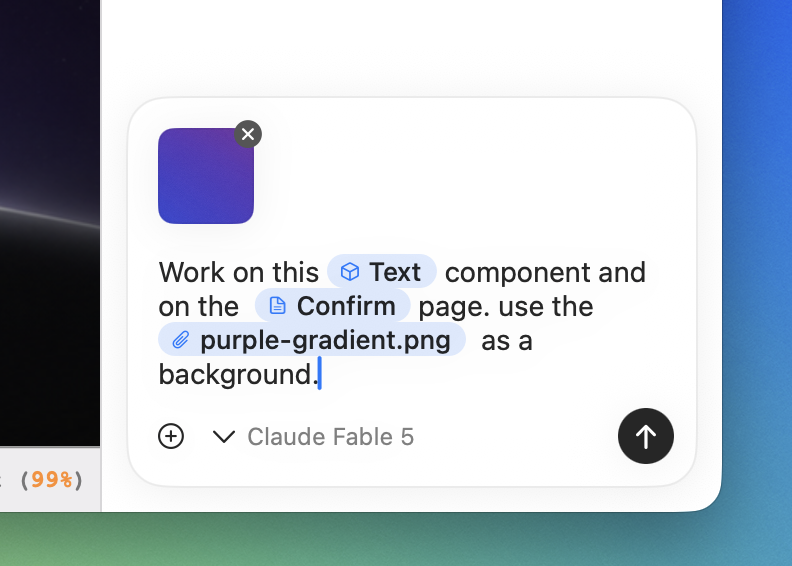
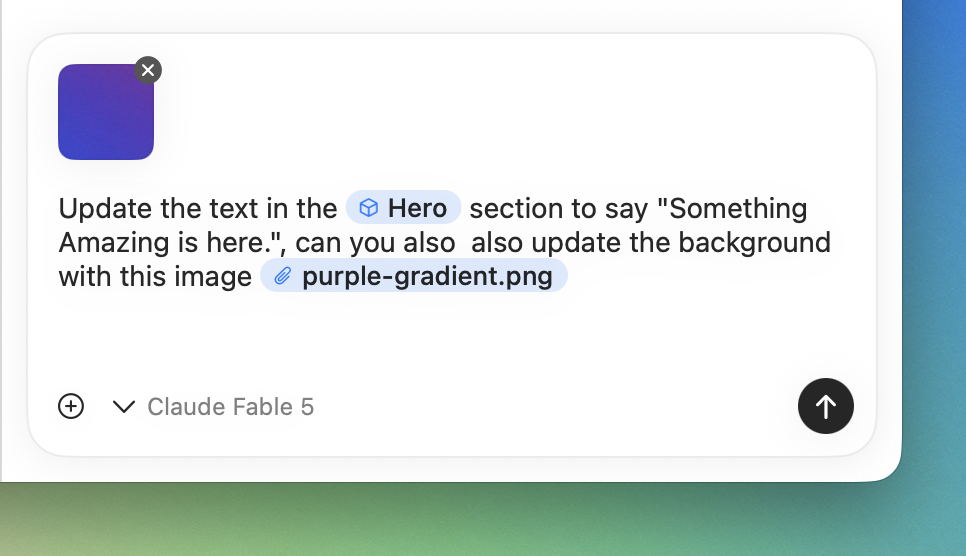
Update AI Assistant context screenshots

diff --git a/using-elements/elements-ai/elements-ai-assistant.md b/using-elements/elements-ai/elements-ai-assistant.md
@@ -105,7 +105,7 @@ Give the Assistant a precise target by adding project items to your message. You
 
 Each item appears as a named chip in the message. You can add several items and then describe how they should be used together. For example, you could target a Text component on a particular page and provide an image to use as its background.
 
-<figure><img src="../../.gitbook/assets/elements-ai-target-page-component-image.png" alt="Elements AI Assistant message targeting a Text component, the Confirm page, and the purple-gradient.png image"><figcaption><p>Drag pages, components, and images into the message to give the Assistant specific targets and context.</p></figcaption></figure>
+<figure><img src="../../.gitbook/assets/elements-ai-target-page-component-image.png" alt="Elements AI Assistant message targeting the Hero section and the purple-gradient.png image"><figcaption><p>Dropped items appear as named chips, making it clear which component and image the Assistant should use.</p></figcaption></figure>
 
 To remove an item before sending, click the **×** on its preview or context chip. Adding an item to the message does not move or remove it from your project.
 
